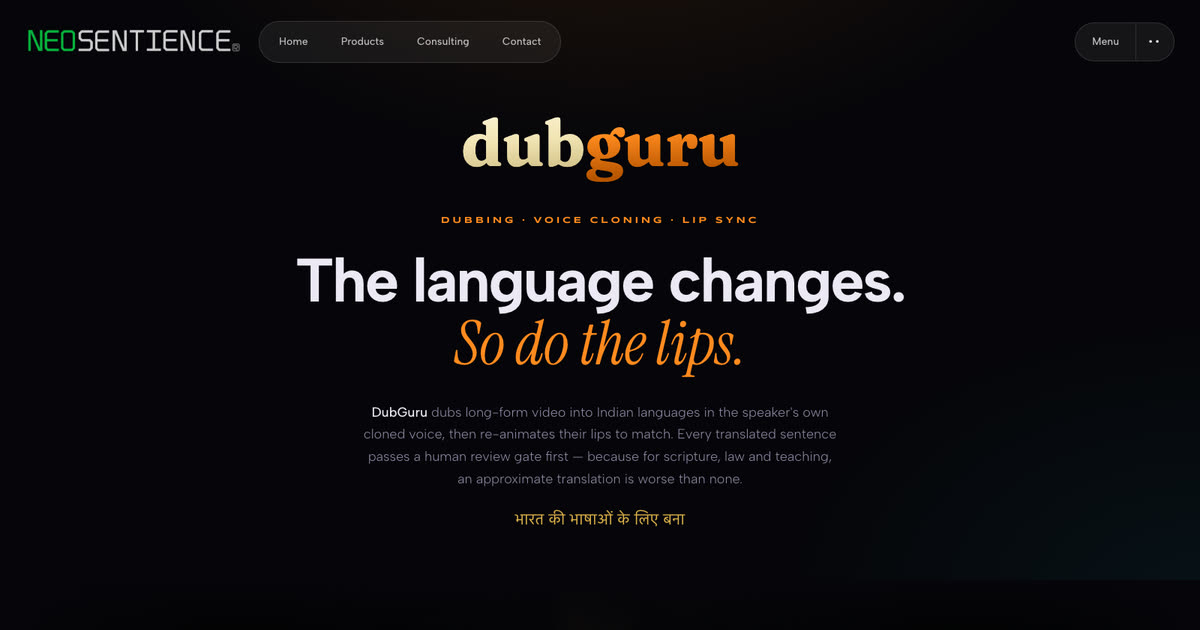
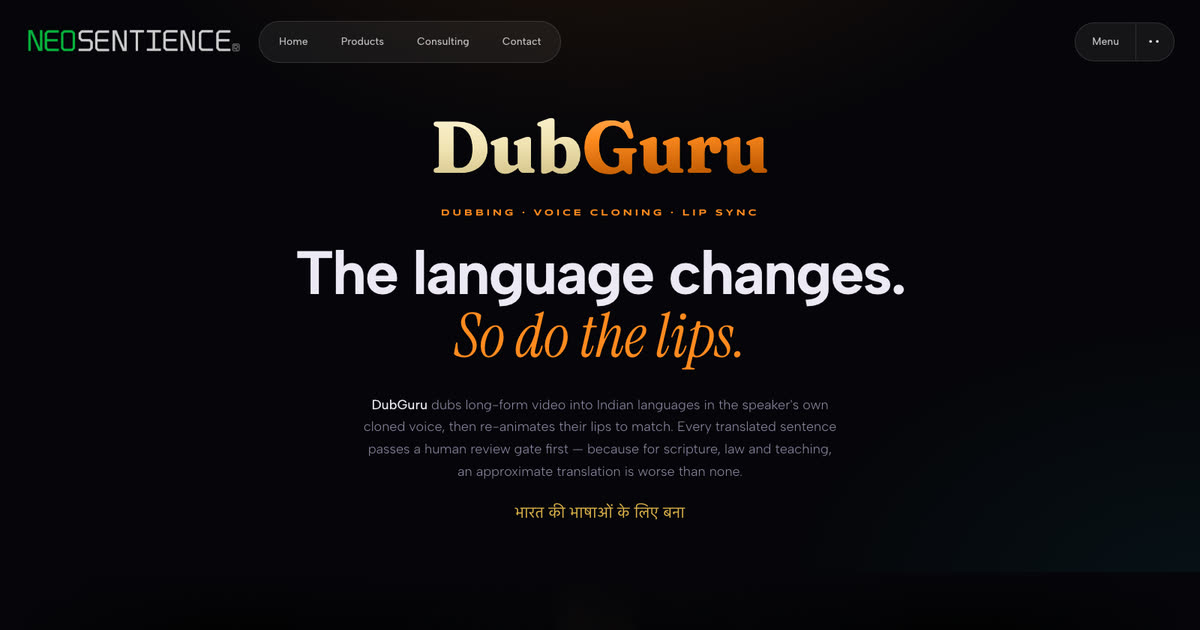
DubGuru logotype: capital D and G

diff --git a/dubguru.html b/dubguru.html
@@ -75,7 +75,7 @@ nav{position:fixed;top:0;left:0;right:0;z-index:100;
 
 /* HERO */
 .hero{padding:150px 32px 30px;text-align:center}
-.hero-logo{width:380px;max-width:80%;height:auto;margin:0 auto 30px}
+.hero-logo{width:460px;max-width:86%;height:auto;margin:0 auto 30px}
 .pill{display:inline-flex;align-items:center;gap:10px;margin-bottom:28px;
   padding:8px 16px;border-radius:999px;
   background:rgba(255,138,31,.1);border:1px solid rgba(255,138,31,.32);
